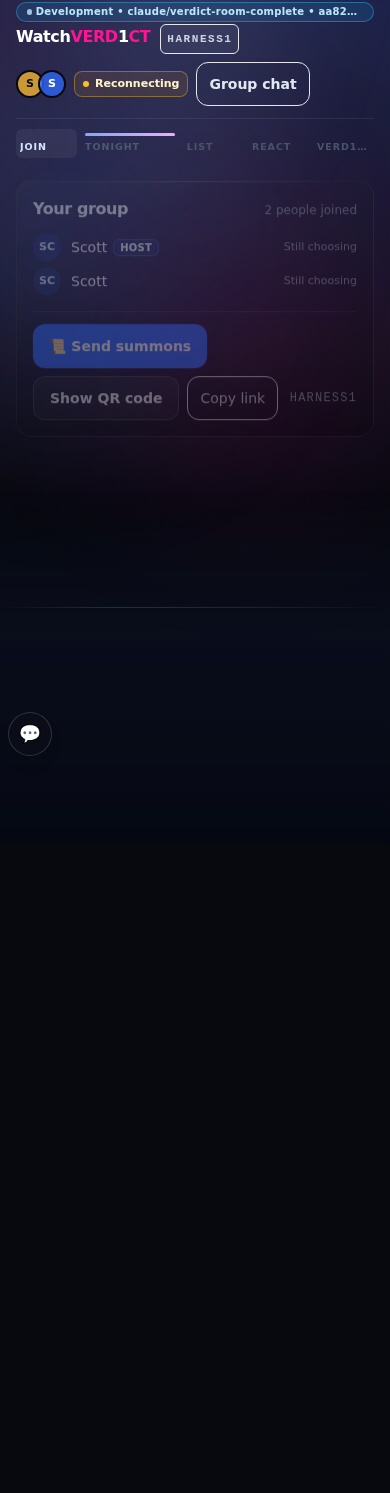
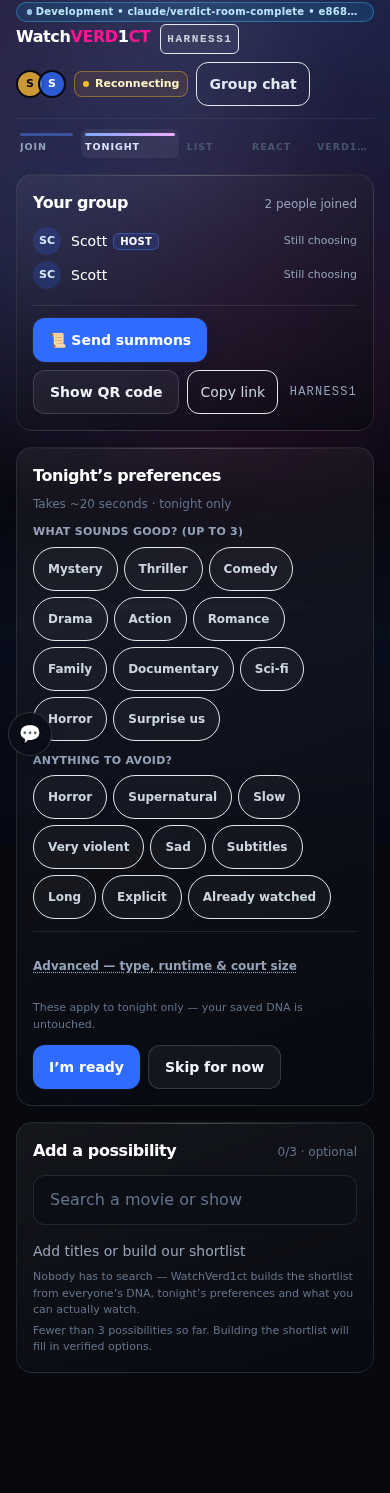
test(court): let the room settle before the review frame is taken
The committed frames caught the room mid-fade. Panels arrive on a 70ms step
(capped at six) on top of a 460ms animation, so a screenshot on the first paint
shows half a lobby — a true picture of one moment and a useless one to review
from. The lobby frame in particular was missing both lower panels entirely,
which is exactly where the 44px chip fix lives.

Waiting is not papering over a slow screen: the content is present and
interactive throughout, and the tap-target and overflow assertions still run
before the wait. Only the opacity was still resolving.

Frames regenerated. verdict-room-interior 16 passed.

Claude-Session: https://claude.ai/code/session_01Vp8mNX6xU8YBioNybnwKYA

diff --git a/tests/mobile/verdict-room-interior.spec.ts b/tests/mobile/verdict-room-interior.spec.ts
@@ -101,6 +101,19 @@ async function overflowX(page: Page) {
 }
 
 /** Product controls only — the dev harness's build badge is not one. */
+/**
+ * Screenshot only once the staged entrance has finished.
+ *
+ * The panels arrive on a 70ms step capped at six, on top of a 460ms animation,
+ * so a frame grabbed on the first paint catches half the room mid-fade — which
+ * is a true picture of one moment and a useless one for review. Waiting is not
+ * papering over a slow screen: the content is present and interactive
+ * throughout; only its opacity is still resolving.
+ */
+async function settled(page: Page) {
+  await page.waitForTimeout(1100);
+}
+
 async function underTouchMinimum(page: Page) {
   return page.evaluate(() => {
     const bad: string[] = [];
@@ -275,6 +288,7 @@ test.describe('atmosphere never costs legibility, a tap target, or a line', () =
       await expect(page.getByTestId('court-react')).toBeVisible();
       expect(await overflowX(page), 'the room must never scroll sideways').toBe(0);
       expect(await underTouchMinimum(page)).toEqual([]);
+      await settled(page);
       await page.screenshot({ path: path.join(SHOTS, `react-${label}.png`), fullPage: true });
     });
   }
@@ -288,6 +302,7 @@ test.describe('atmosphere never costs legibility, a tap target, or a line', () =
     await page.getByTestId('join-court').click();
     await expect(page.getByTestId('court-tonight')).toBeVisible();
     expect(await underTouchMinimum(page)).toEqual([]);
+    await settled(page);
     await page.screenshot({ path: path.join(SHOTS, 'lobby-phone.png'), fullPage: true });
   });
 
@@ -313,6 +328,7 @@ test.describe('atmosphere never costs legibility, a tap target, or a line', () =
         .filter((d) => parseFloat(d) > 0.01),
     );
     expect(slow, 'every ambient animation should be collapsed below 10ms').toEqual([]);
+    await settled(page);
     await page.screenshot({ path: path.join(SHOTS, 'verdict-reduced-motion.png'), fullPage: true });
   });
 });
